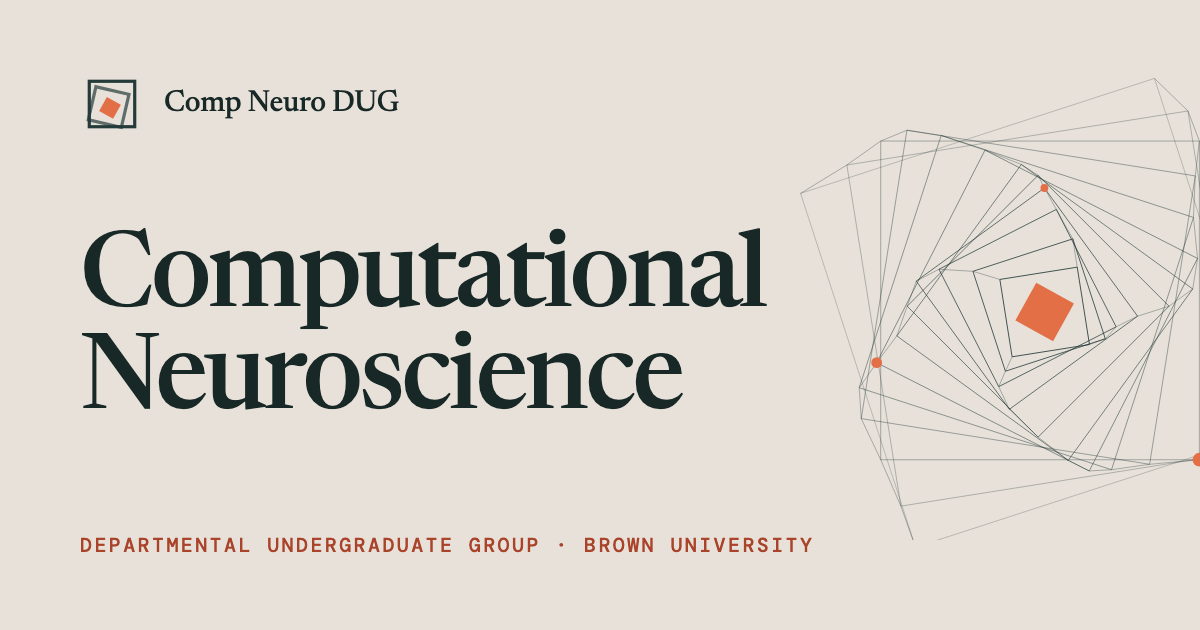
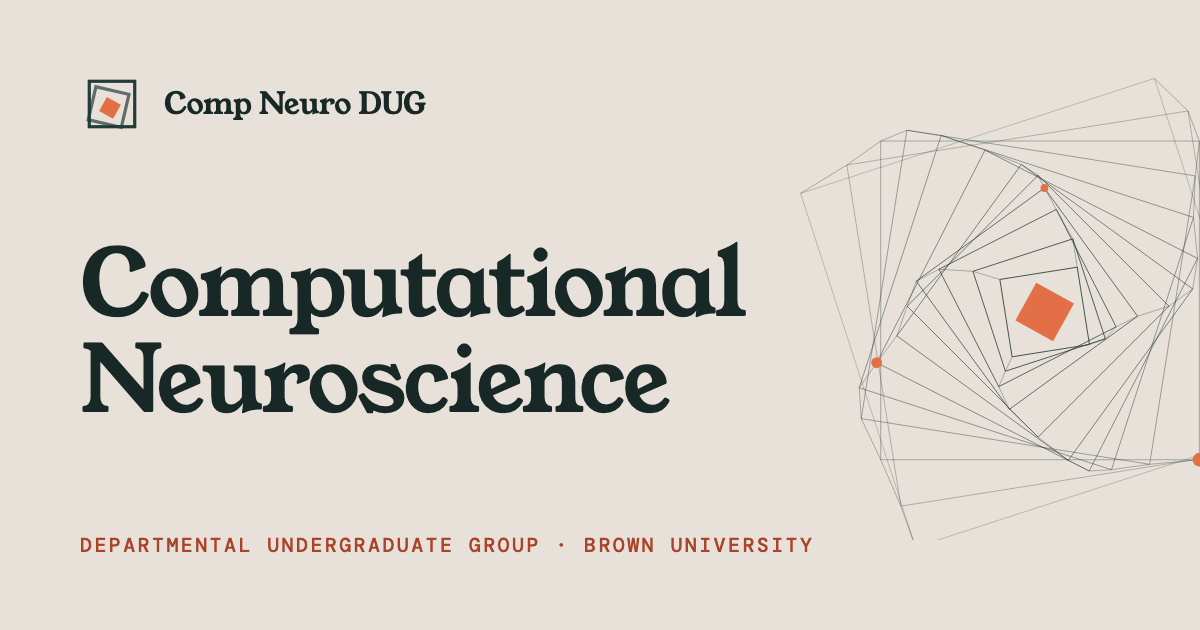
New type, dark green footer, Instagram
- Type: Young Serif (display, headings) + Hanken Grotesk (text), keeping
  DM Mono labels. Sizes retuned for the wider serif; metric-matched
  Georgia/Arial fallbacks so the font swap causes no layout shift.
- Footer: dark green section with the reversed mark; partner logos move
  to a light band above it (brand rule: no partner logos on dark).
- Instagram link in the nav, mobile menu and footer.
- Social preview image re-rendered in the new type.
- Lighthouse mobile 92-99 Performance, CLS 0, 100 elsewhere.

Changed region(s): [[0.0617, 0.3619, 0.6475, 0.6635], [0.1233, 0.1206, 0.37, 0.2111]]

diff --git a/src/styles/tokens.css b/src/styles/tokens.css
@@ -21,23 +21,28 @@
   --dug-rule: #c9c1b7; /* Dividers, borders */
 
   /* ---- Font families ---- */
-  --dug-font-serif: 'Newsreader Variable', 'Iowan Old Style', Georgia, serif;
-  --dug-font-sans: 'DM Sans Variable', ui-sans-serif, system-ui, sans-serif;
+  /* Type: Young Serif (display, headings) + Hanken Grotesk (text) + DM Mono
+     (labels). Chosen Oct 2026 over the board's Newsreader + DM Sans for a
+     warmer, less generic feel; roles and sizes follow the board. */
+  --dug-font-serif: 'Young Serif', 'Young Serif Fallback', Georgia, serif;
+  --dug-font-sans: 'Hanken Grotesk Variable', 'Hanken Grotesk Fallback', ui-sans-serif, system-ui, sans-serif;
   --dug-font-mono: 'DM Mono', ui-monospace, 'SF Mono', Menlo, monospace;
 
   /* ---- Type scale: Web (mobile values first, desktop below) ----
    * Figma "DUG / Web Desktop / …". Sizes in rem (16px base).
    */
-  --dug-display-size: 3rem; /* 48 */
-  --dug-display-leading: 3.125rem; /* 50 */
-  --dug-display-tracking: -0.03em;
+  /* Young Serif runs ~10% wider than Newsreader: sizes are trimmed so
+     "Computational" fits a phone and the hero's text column. */
+  --dug-display-size: 2.625rem; /* 42 */
+  --dug-display-leading: 1.08;
+  --dug-display-tracking: -0.02em;
 
-  --dug-h1-size: 2.25rem; /* 36 */
-  --dug-h1-leading: 2.5rem; /* 40 */
-  --dug-h1-tracking: -0.02em;
+  --dug-h1-size: 2rem; /* 32 */
+  --dug-h1-leading: 2.375rem; /* 38 */
+  --dug-h1-tracking: -0.015em;
 
-  --dug-h2-size: 1.75rem; /* 28 */
-  --dug-h2-leading: 2.125rem; /* 34 */
+  --dug-h2-size: 1.5rem; /* 24 */
+  --dug-h2-leading: 1.875rem; /* 30 */
   --dug-h2-tracking: -0.01em;
 
   --dug-h3-size: 1.25rem; /* 20 */
@@ -62,6 +67,7 @@
 
   --dug-weight-regular: 400;
   --dug-weight-medium: 500;
+  --dug-weight-display: 400; /* Young Serif has one weight */
 
   /* ---- Layout ---- */
   --dug-spacing: 0.25rem; /* Tailwind spacing unit: p-4 = 1rem */
@@ -85,16 +91,16 @@
 
 @media (min-width: 48rem) {
   :root {
-    /* Fluid between tablet and the 1440 Figma frame, so long words like
-       "Computational" fit the hero's text column: 56px at 768 → 88px at 1440. */
-    --dug-display-size: clamp(3.5rem, 1.25rem + 4.7vw, 5.5rem);
-    --dug-display-leading: 1;
+    /* Fluid between tablet and the 1440 Figma frame, so "Computational"
+       fits the hero's text column: 51px at 768 → 84px at 1440. */
+    --dug-display-size: clamp(3.25rem, 1rem + 4.6vw, 5.25rem);
+    --dug-display-leading: 1.05;
 
-    --dug-h1-size: 3.5rem; /* 56 */
-    --dug-h1-leading: 3.75rem; /* 60 */
+    --dug-h1-size: 3.125rem; /* 50 */
+    --dug-h1-leading: 3.5rem; /* 56 */
 
-    --dug-h2-size: 2.25rem; /* 36 */
-    --dug-h2-leading: 2.625rem; /* 42 */
+    --dug-h2-size: 2rem; /* 32 */
+    --dug-h2-leading: 2.375rem; /* 38 */
 
     --dug-h3-size: 1.5rem; /* 24 */
     --dug-h3-leading: 1.875rem; /* 30 */

diff --git a/src/styles/global.css b/src/styles/global.css
@@ -3,6 +3,28 @@
 @import 'lenis/dist/lenis.css';
 
 /*
+ * Metric-matched fallbacks: while the web fonts load, text renders in a
+ * local font stretched to the same size, so nothing jumps when they swap
+ * (homepage CLS 0.089 → ~0). Measured against Young Serif / Hanken Grotesk.
+ */
+@font-face {
+  font-family: 'Young Serif Fallback';
+  src: local('Georgia');
+  size-adjust: 114.18%;
+  ascent-override: 91.61%;
+  descent-override: 32.06%;
+  line-gap-override: 0%;
+}
+@font-face {
+  font-family: 'Hanken Grotesk Fallback';
+  src: local('Arial'), local('Helvetica');
+  size-adjust: 100.45%;
+  ascent-override: 99.55%;
+  descent-override: 29.87%;
+  line-gap-override: 0%;
+}
+
+/*
  * Map design tokens onto Tailwind. Tailwind's default palette, fonts and
  * type sizes are cleared so only brand tokens exist as utilities —
  * `bg-blue-500` or `text-xl` will not compile to anything.
@@ -29,6 +51,7 @@
   --font-weight-*: initial;
   --font-weight-regular: var(--dug-weight-regular);
   --font-weight-medium: var(--dug-weight-medium);
+  --font-weight-display: var(--dug-weight-display);
 
   --text-*: initial;
   --text-display: var(--dug-display-size);
@@ -109,7 +132,7 @@
   h1,
   h2 {
     font-family: var(--dug-font-serif);
-    font-weight: var(--dug-weight-medium);
+    font-weight: var(--dug-weight-display);
   }
 
   ::selection {
@@ -121,6 +144,11 @@
     outline: var(--dug-focus-width) solid var(--dug-signal-text);
     outline-offset: var(--dug-focus-offset);
     border-radius: var(--dug-radius);
+  }
+
+  /* Coral focus rings don't show on Structure; use Field there. */
+  .on-dark :focus-visible {
+    outline-color: var(--dug-field);
   }
 
   @media (prefers-reduced-motion: reduce) {
@@ -149,7 +177,7 @@
   .prose-dug h2 {
     margin-top: 2.5em;
     font-family: var(--dug-font-serif);
-    font-weight: var(--dug-weight-medium);
+    font-weight: var(--dug-weight-display);
     font-size: var(--dug-h2-size);
     line-height: var(--dug-h2-leading);
     letter-spacing: var(--dug-h2-tracking);

diff --git a/src/lib/site.ts b/src/lib/site.ts
@@ -11,6 +11,7 @@ export const SITE = {
   description:
     'The Computational Neuroscience Departmental Undergraduate Group at Brown University: talks, advising, research and community at the intersection of brains and computation.',
   email: 'compneurodug@brown.edu',
+  instagram: 'https://www.instagram.com/brown_compneuro_dug/',
   // Advising board on Ed, moderated by Prof. David Sheinberg.
   ed: 'https://edstem.org/us/join/JaEjcM',
   departmentEmail: 'neuroundergrad@brown.edu',

diff --git a/CLAUDE.md b/CLAUDE.md
@@ -30,6 +30,8 @@ Before finishing any phase, `npm run build` and `npx astro check` both pass.
 - Warm and light throughout. No dark sections. Modern and calm, Notion-inspired: generous whitespace, 1px Rule borders, Surface cards, small DM Mono labels, a quiet grid.
 - Hero: a 3D wireframe crystalline cluster on the light Field background, drawn in Structure lines with coral Signal nodes (echoes the logo). Slow movement, subtle cursor response.
 - Content sections: editorial and scientific. Fine single-weight anatomical line drawings with small "FIG. 1"-style DM Mono labels, and a grid of short labeled descriptions beneath. Drawings trace themselves in on scroll.
+- Type (Oct 2026, Aida's choice): Young Serif for display and headings (one weight, use `font-display`), Hanken Grotesk for text, DM Mono for labels. This replaces the board's Newsreader + DM Sans; the board's roles, scale and colors still apply. The Figma text styles should be updated to match.
+- Dark green (Structure) is used for the footer. Partner logos never sit on it: they live on the light band above. On dark, small text uses Field or Rule (never coral), and focus rings switch to Field via `.on-dark`.
 - Brand rules from the Figma board apply: proportion roughly Field 60% · Surface 25% · Structure 10% · Signal 5%. Text under 24px is Ink, Muted or Signal Text — never bright Signal.
 
 ## The token rule
@@ -65,7 +67,7 @@ Before finishing any phase, `npm run build` and `npx astro check` both pass.
 
 - Content pages ship zero client JavaScript unless a component needs it. Default to `.astro` components; reach for React only for interactivity.
 - Use `astro:assets` (`<Image />`) for raster images. Self-host fonts.
-- Aim for Lighthouse 90+ on Performance, Accessibility, Best Practices and SEO. Phase 7 baseline (simulated mobile): 88–97 Performance, 100 on the rest; desktop 100 across the board. CSS is inlined (`build.inlineStylesheets: 'always'`) and the Newsreader latin font is preloaded. The remaining mobile gap is the 132 KB optical-size Newsreader file, kept on purpose for display quality.
+- Aim for Lighthouse 90+ on Performance, Accessibility, Best Practices and SEO. Phase 7 baseline (simulated mobile): 88–97 Performance, 100 on the rest; desktop 100 across the board. CSS is inlined (`build.inlineStylesheets: 'always'`) and the Young Serif latin font (27 KB) is preloaded.
 
 ## Folder conventions
 
